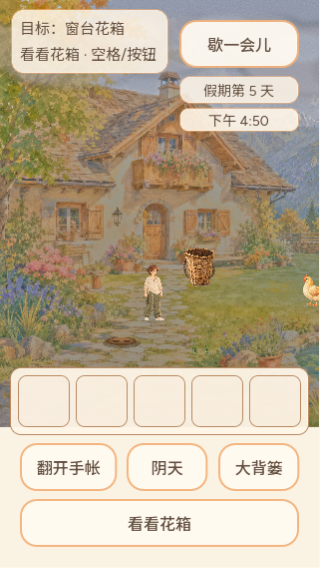
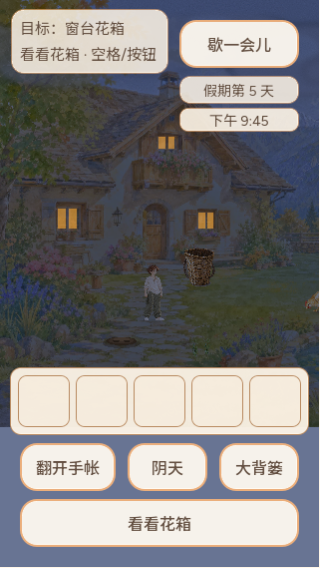
docs: 补 360×640 证据，改正「360 不变」表述（CURSOR-CLOUD）

diff --git a/docs/playtests/2026-10-11-cursor-cloud-narrow-280/README.md b/docs/playtests/2026-10-11-cursor-cloud-narrow-280/README.md
@@ -5,8 +5,12 @@
 ## 院里底排三枚小按钮
 
 - **修前**（`before-yard-280x653.png`）：竖屏三枚小按钮平分 `(宽 − 80) / 3`，280 宽只有约 67px；「翻开手帐」文字需 96px，按钮被文字撑宽，压住「阴天 / 大太阳」约 9px，整排右端到 273，越过 20px 边距。320 宽间距只剩 4px。英文 280 宽同样溢出。
-- **修法**（`scripts/main.gd` `_chip_row_plan`）：平分放得下时不变（360、390 宽等仍等宽）；放不下时按各自文字宽度排、间距 10px，仍不够再把左右内边距从 16 收到 8px。天气按钮按所有天气里最长的名字留宽，换天气不必重排。
-- **修后**：`after-yard-280x653.png`、`after-yard-320x568.png`。
+- **修法**（`scripts/main.gd` `_chip_row_plan`），分三档：
+  1. 平分放得下：不变（390 宽、英文 360 宽、横屏等与 main 逐像素一致）。
+  2. 只差几像素：其余两枚仍平分，只让放不下的那枚变宽，间距从 20 往 10 收。360×640 中文「翻开手帐」96px 对平分 93.3px：96 / 93.3 / 93.3、间距 18.7。main 上它同样被文字撑到 96、间距 17.3 与 20，所以只是中间那枚右移约 1.3px。320 宽为 96 / 80 / 80、间距 12。
+  3. 仍放不下（280 宽）：按各自文字宽度排、间距 10px，再不够把左右内边距从 16 收到 8px：84 / 68 / 68。
+  - 天气按钮按所有天气里最长的名字留宽，换天气、切语言不必重排。
+- **修后**：`after-yard-280x653.png`、`after-yard-320x568.png`、`after-yard-360x640.png`（夜里截的，院景偏暗与本改动无关）。
 
 ## 标题页
 
@@ -16,5 +20,5 @@
 
 ## 回归
 
-- `test/hud_single_row_suite.gd`：竖屏加 280×653、300×600；竖屏也查文字放得下、两侧 20px 边距、间距 ≥ 8px、内边距 ≥ 8px。修前 79 条失败，修后 6864 checks 通过。
+- `test/hud_single_row_suite.gd`：竖屏加 280×653、300×600；竖屏也查文字放得下、两侧 20px 边距、间距 ≥ 8px、内边距 ≥ 8px；360 宽及以上天气/背篓保持平分、间距 ≥ 16px。main 上 79 条失败，修后 7032 checks 通过。
 - `test/title_card_suite.gd`：加 320×568、280×653。修前 10 条失败，修后 327 checks 通过。

diff --git a/docs/decisions.md b/docs/decisions.md
@@ -1,6 +1,6 @@
 ## 2026-10-11 最窄竖屏底排小按钮与标题按钮不再溢出（CURSOR-CLOUD UI 维护）
 
-Web 巡检 280 宽竖屏：院里「翻开手帐」压住天气按钮、整排越出右边距；标题页按钮撑出纸片。平分放不下时小按钮按文字宽度排（间距 10px，必要时内边距收到 8px），标题按钮宽度不超过列宽；360/390 等原有布局不变。[证据](playtests/2026-10-11-cursor-cloud-narrow-280/README.md)。
+Web 巡检 280 宽竖屏：院里「翻开手帐」压住天气按钮、整排越出右边距；标题页按钮撑出纸片。平分放不下时先只放宽放不下的那枚、收窄间距（360 宽中文与原先差约 1.3px），280 宽仍放不下才按文字宽度排（间距 10px，必要时内边距收到 8px）；标题按钮宽度不超过列宽；390 宽与横屏不变。[证据](playtests/2026-10-11-cursor-cloud-narrow-280/README.md)。
 
 ## 2026-10-11 快捷栏不再压住院里底排按钮（CURSOR-CLOUD UI 维护）
 
